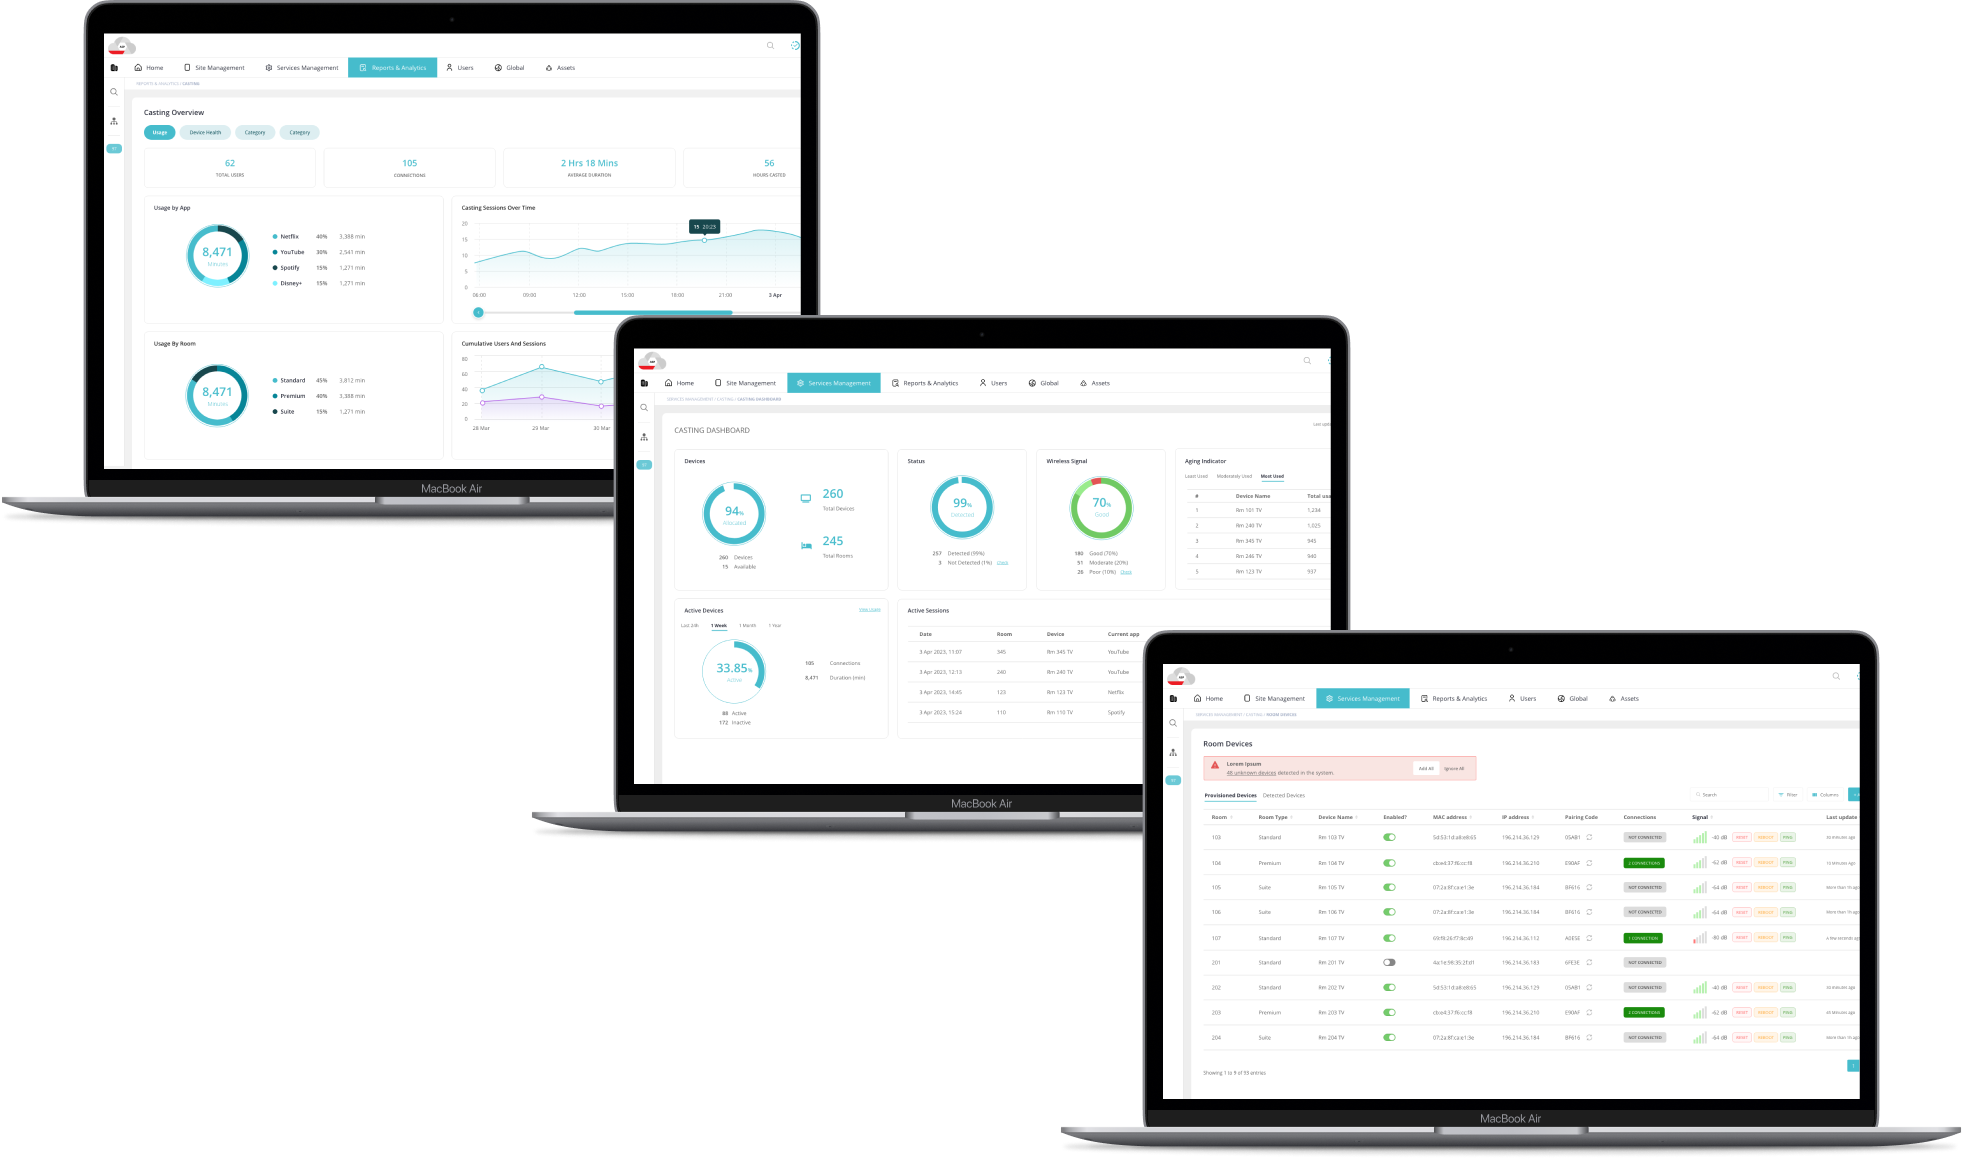
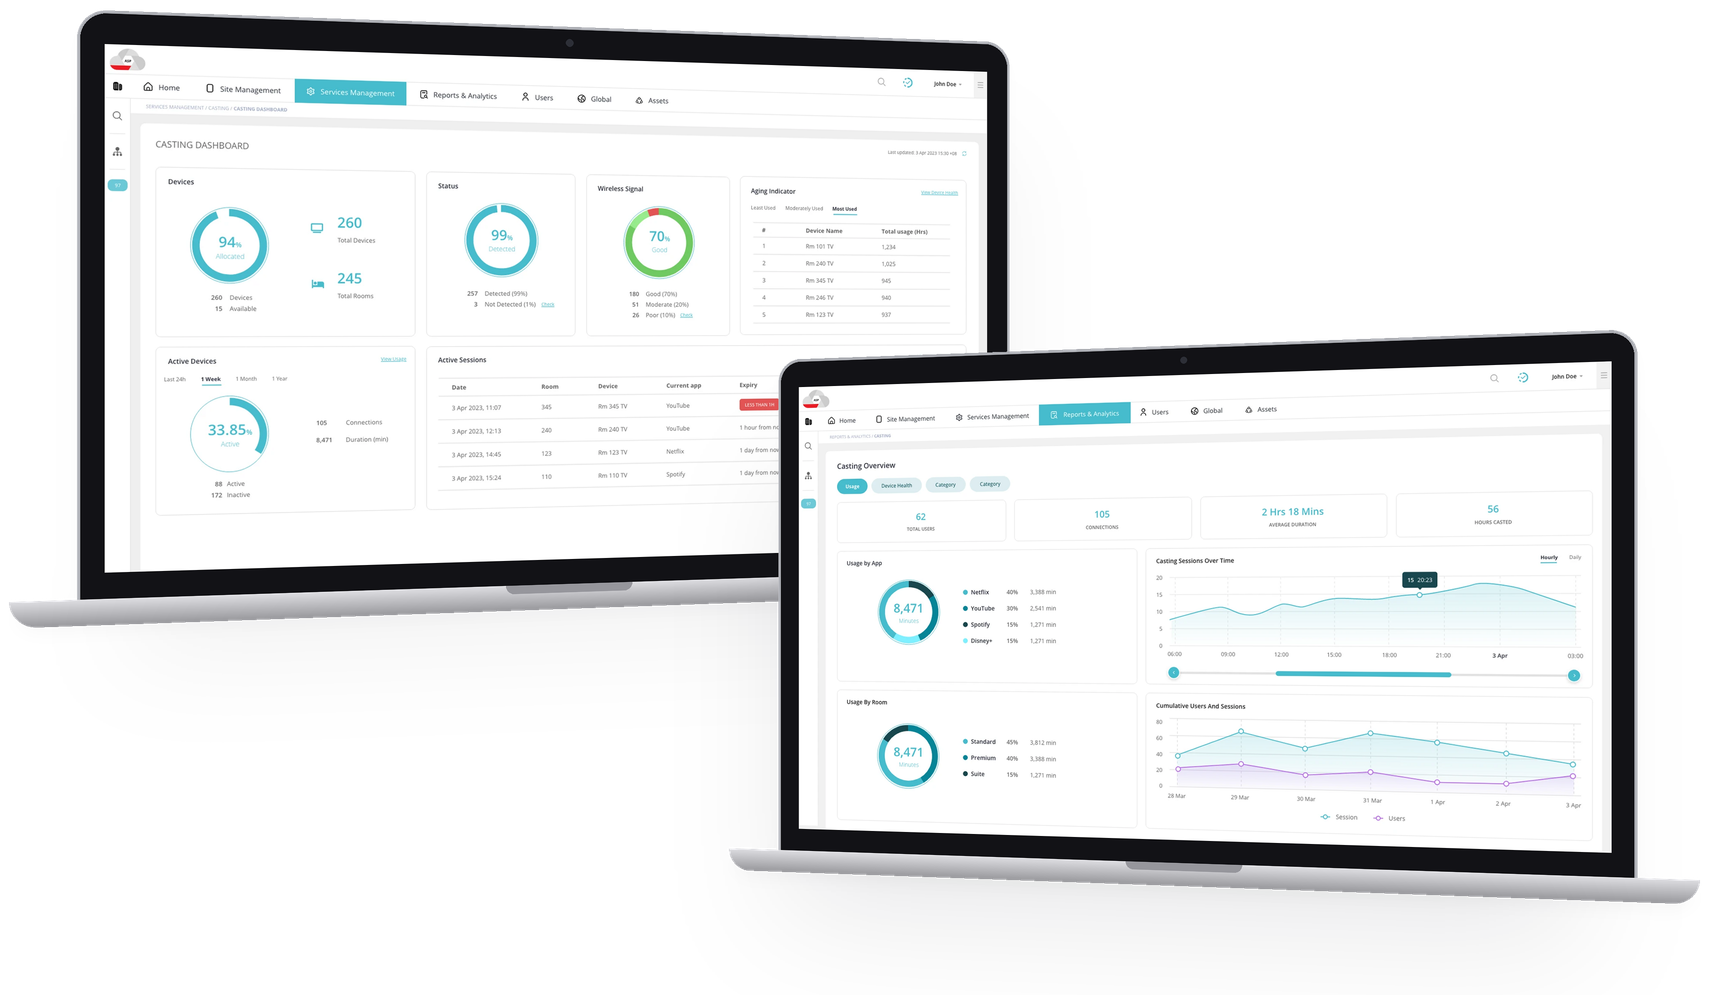
New angled hero images for ANTlabs and Ingenico
ANTlabs: casting dashboard and casting overview on two angled laptops.
Ingenico: home, sale amount and installment screens on fanned Android phones.

diff --git a/case-studies/ingenico.html b/case-studies/ingenico.html
@@ -50,7 +50,7 @@
     </div>
 
     <div class="ed-hero">
-      <img src="../assets/img/ingenico/hero.png" alt="Lofi wireframes beside two phones showing the hifi payment and sign-in screens">
+      <img src="../assets/img/ingenico/hero.png" alt="Three Android phones showing the home screen, sale amount keypad and installment payment term screens">
     </div>
   </header>
 

diff --git a/case-studies/antlabs.html b/case-studies/antlabs.html
@@ -50,7 +50,7 @@
     </div>
 
     <div class="ed-hero">
-      <img src="../assets/img/antlabs/hero.png" alt="Three laptops showing the casting overview, casting dashboard and room devices pages">
+      <img src="../assets/img/antlabs/hero.png" alt="Two angled laptops showing the casting dashboard and the casting overview">
     </div>
   </header>
 
